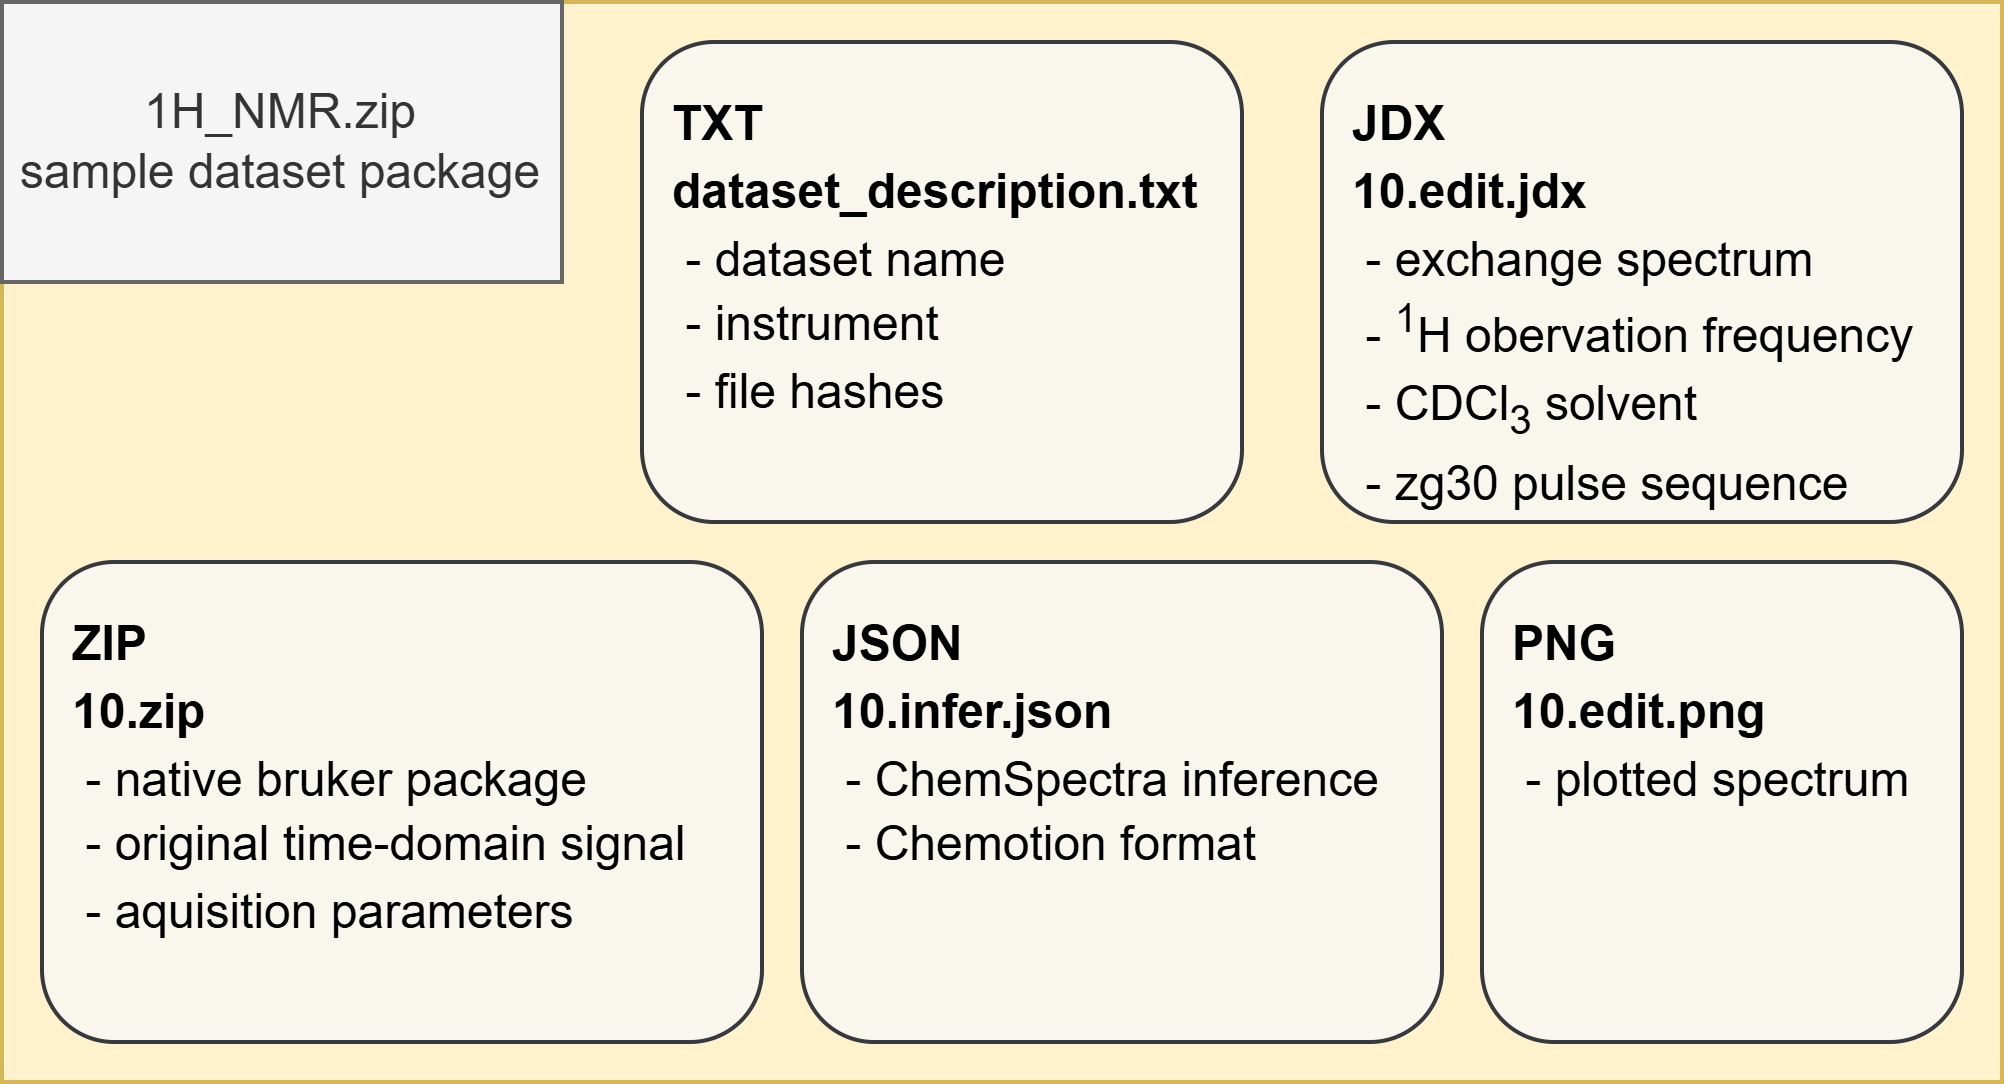
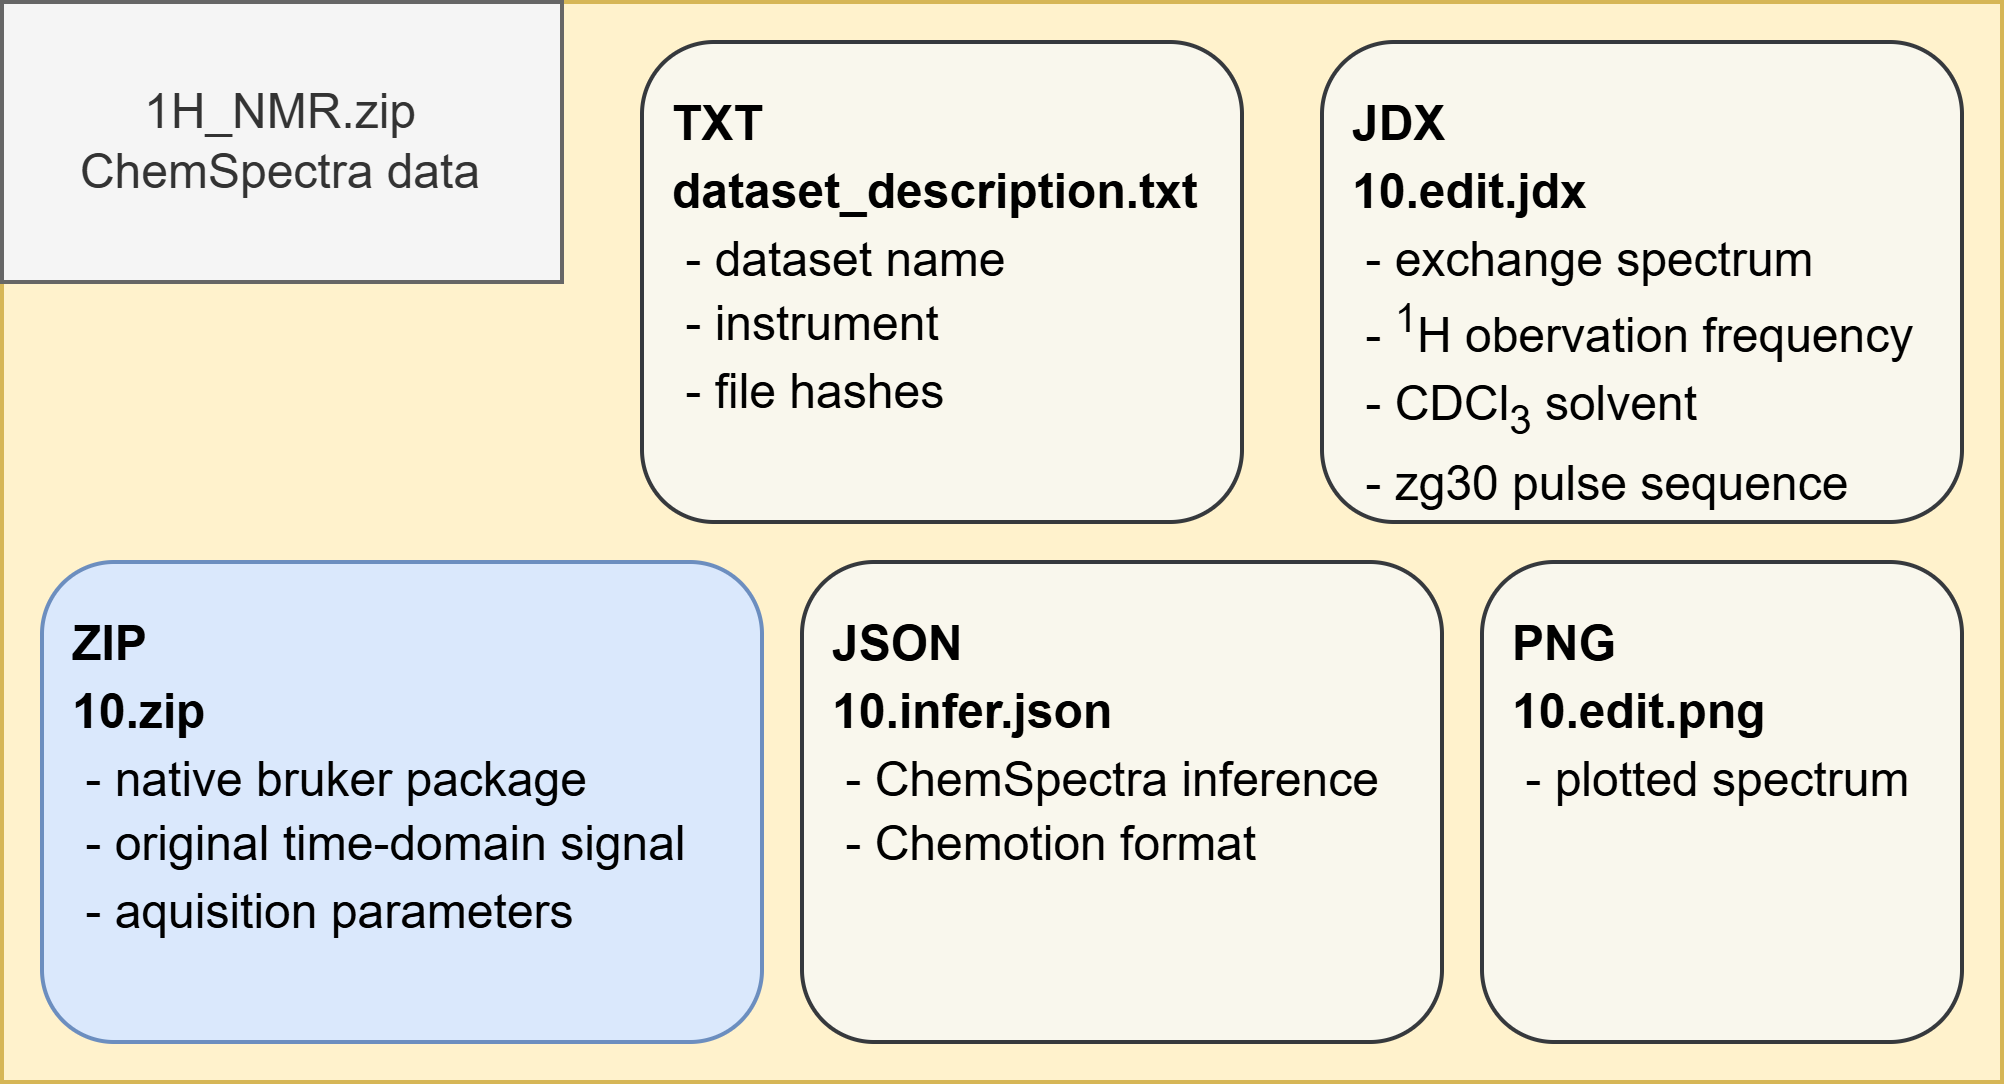
fix(thesis): clarify dataset description and improve explanation of NMR data sources

Changed region(s): [[0.0, 0.5175, 0.4022, 0.9742], [0.0, 0.1218, 0.2784, 0.1827]]

diff --git a/docs/thesis/sections/04_methodical_approach.tex b/docs/thesis/sections/04_methodical_approach.tex
@@ -33,17 +33,12 @@ Therefore, it is not limited to a specific field or file format.
 This study used a number of \ac{NMR} datasets as test datasets.
 One sample is first presented below to provide an overview of the resources these datasets contain.
 
-The sample dataset consists of a single one-dimensional \textsuperscript{1}H NMR dataset stored in a vendor specific format.
+The sample dataset consists of a single one-dimensional \textsuperscript{1}H NMR dataset exported from ChemSpectra, a web-based spectra editor for analytical data \cite{Huang2021}.
 \Cref{fig:1H-NMR-dataset} shows the dataset structure and its contents.
-It originates from a ChemSpectra export of a one-dimensional \textsuperscript{1}H NMR experiment.
-Within this export, the nested archive \texttt{10.zip} preserves the native Bruker instrument output and is therefore treated as the raw input for the metadata-extraction workflow.
-The archive contains the acquired \ac{FID} signal together with the associated acquisition parameters, pulse program, processing metadata, audit information, and instrument settings.
-In contrast to the accompanying \ac{JCAMP-DX} and image files generated by ChemSpectra, \texttt{10.zip} represents the vendor-specific source data before conversion into a standardized spectral representation. Using this archive as the sample input allows the workflow to be evaluated on the heterogeneous files that are directly associated with the original measurement rather than on an already normalized derivative.
-
-The file \texttt{dataset\_description.txt} provides a minimal package-level description and identifies the instrument as a Bruker Avance 500 MHz.
-The nested \texttt{10.zip} archive preserves the native Bruker experiment directory, including the raw free-induction-decay signal, acquisition and processing parameters, the pulse program, audit information, and hardware settings.
-As this dataset is 
-In parallel, \texttt{10.edit.jdx} contains a standardized JCAMP-DX representation of the processed spectrum with 32,768 spectral points, recorded for \textsuperscript{1}H at 500.133~MHz in CDCl\textsubscript{3} using the \texttt{zg30} pulse sequence. The file \texttt{10.edit.png} provides a directly inspectable spectrum preview, whereas \texttt{10.infer.json} represents a machine-readable analysis output that is empty in this example. The package therefore illustrates the heterogeneous inputs expected by the workflow: descriptive text, vendor-specific binary and parameter files, a standardized spectral exchange format, an image, and JSON.
+Within this export, the nested archive \texttt{10.zip} preserves the native Bruker instrument output and is therefore treated as an example for a raw instrument generated input for the metadata-extraction workflow.
+The archive contains the acquired \ac{FID} signal together with the associated acquisition parameters.
+In contrast, the accompanying files generated by ChemSpectra represent a standardized spectral representation.
+Using both the raw and standardized files as input allows the workflow to be evaluated on both types of data, which are expected to be present in real-world datasets.
 
 \begin{figure}[H]
     \centering
